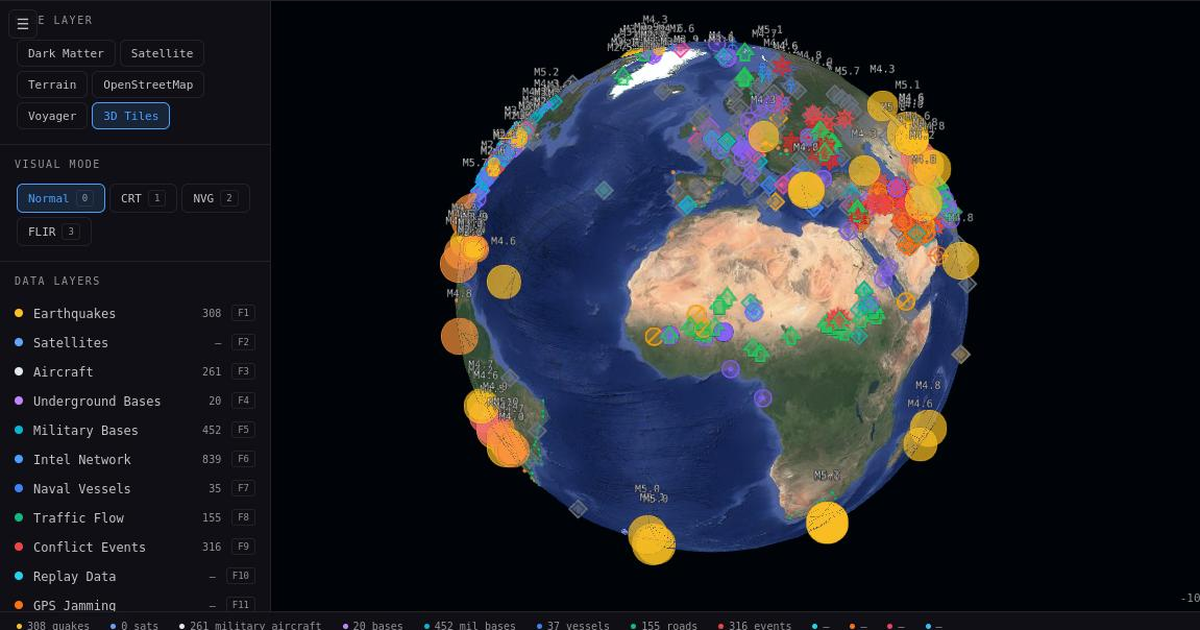
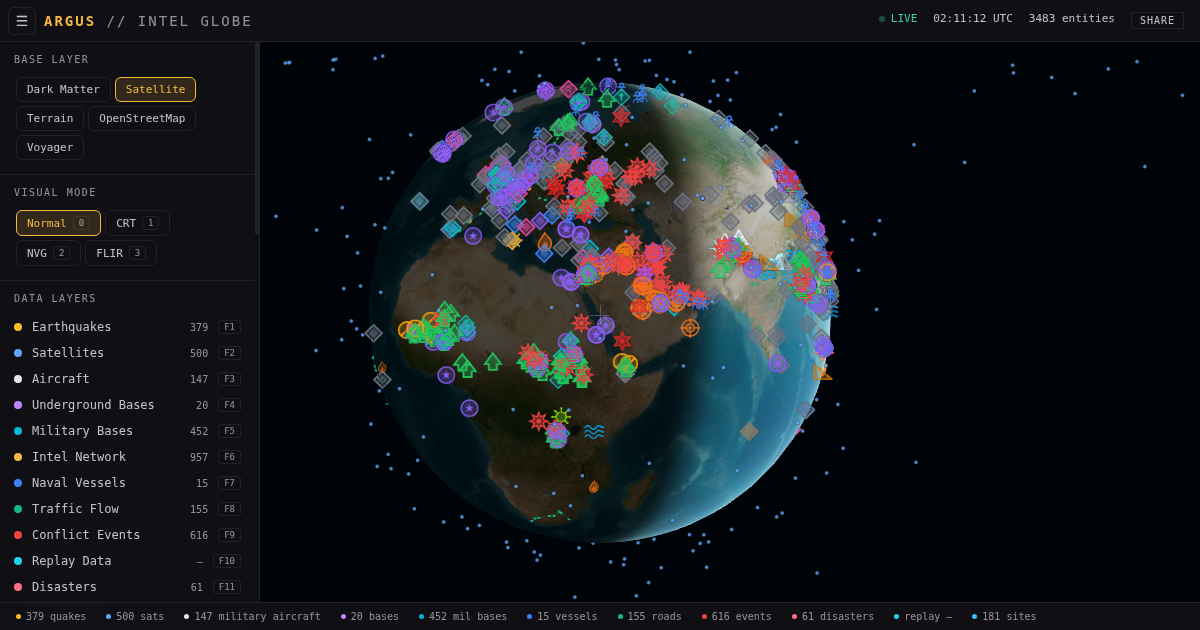
UI fixes from blind QC + amber og-image
- Panel toggle (☰) moves into the top bar beside the logo; it had sat on the
  panel's first heading ("BASE LAYER" read "E LAYER").
- Earthquake labels keep the L-toggle state across the 5-minute poll rebuild
  (they were hard-coded show: true, so labels came back after every refresh).
- Replay stat in the status bar reads "replay —" instead of a bare dash.
- og-image retaken from the live site: amber reskin, satellite base, current
  counts (616 events / 61 disasters). The old card was blue and showed the
  removed 3D Tiles and GPS Jamming layers.
- cdp_smoke: SHOT_JS stages the card with page script before capture.

Claude-Session: https://claude.ai/code/session_01JL3ZdCQbBUjmREN6EJ2Aco

diff --git a/index.html b/index.html
@@ -164,7 +164,7 @@
     <div class="stat-item"><div class="stat-dot" style="background:var(--traffic-color)"></div><span id="stat-traffic">—</span></div>
     <div class="stat-item"><div class="stat-dot" style="background:var(--conflict-color)"></div><span id="stat-conflicts">—</span></div>
     <div class="stat-item"><div class="stat-dot" style="background:var(--disaster-color)"></div><span id="stat-disasters">—</span></div>
-    <div class="stat-item"><div class="stat-dot" style="background:var(--playback-color)"></div><span id="stat-playback">—</span></div>
+    <div class="stat-item"><div class="stat-dot" style="background:var(--playback-color)"></div><span id="stat-playback">replay —</span></div>
     <div class="stat-item"><div class="stat-dot" style="background:var(--antarctica-color)"></div><span id="stat-antarctica">—</span></div>
   </div>
 

diff --git a/js/earthquakes.js b/js/earthquakes.js
@@ -2,6 +2,7 @@
 
 const Earthquakes = (() => {
   let entities = [];
+  let labelsVisible = true; // survives the poll rebuild
   let visible = true;
   let quakeData = [];
   const FEED_URL = 'https://earthquake.usgs.gov/earthquakes/feed/v1.0/summary/2.5_week.geojson';
@@ -68,7 +69,7 @@ const Earthquakes = (() => {
           verticalOrigin: Cesium.VerticalOrigin.BOTTOM,
           pixelOffset: new Cesium.Cartesian2(0, -size - 4),
           disableDepthTestDistance: 0,
-          show: true,
+          show: labelsVisible,
         },
         properties: {
           type: 'earthquake',
@@ -132,6 +133,7 @@ const Earthquakes = (() => {
   }
 
   function setLabelsVisible(show) {
+    labelsVisible = show;
     entities.forEach(e => {
       if (e.label) e.label.show = show;
     });

diff --git a/css/style.css b/css/style.css
@@ -88,6 +88,7 @@ html, body {
 }
 
 #top-bar .logo {
+  margin-left: 28px; /* room for #toggle-panel-btn */
   font-size: 14px;
   font-weight: 700;
   letter-spacing: 2px;
@@ -674,7 +675,7 @@ html, body {
 /* ── Toggle panel button ── */
 #toggle-panel-btn {
   position: fixed;
-  top: 50px;
+  top: 7px; /* in the top bar, left of the logo — clear of the panel content */
   left: 8px;
   width: 28px; height: 28px;
   display: flex;
@@ -685,7 +686,7 @@ html, body {
   border-radius: var(--radius);
   color: var(--text-secondary);
   cursor: pointer;
-  z-index: 1000;
+  z-index: 1001;
   font-size: 14px;
 }
 

diff --git a/tools/sweep/cdp_smoke.js b/tools/sweep/cdp_smoke.js
@@ -112,6 +112,8 @@ const getJson = (url) => new Promise((res, rej) => {
       if (typeof Disasters !== 'undefined') Disasters.setVisible(true);
       Globe.flyTo(${lon}, ${lat}, ${alt}, 0);
     })()` });
+    // SHOT_JS: page script to stage the card (layer visibility, base layer, …)
+    if (process.env.SHOT_JS) await send('Runtime.evaluate', { expression: process.env.SHOT_JS });
     // SHOT_KEYS: single-char app shortcuts to press first, e.g. "l" = labels off
     for (const k of (process.env.SHOT_KEYS || '')) {
       const code = k.toUpperCase().charCodeAt(0);

diff --git a/tools/sweep/README.md b/tools/sweep/README.md
@@ -9,7 +9,7 @@ Workflow (see memory `worldview-intel-globe`, session 2026-08-28):
 4. `node test_disasters.js` → exercises js/disasters.js headlessly against a GDACS fixture.
 5. Serve the repo (`python3 -m http.server 8080`) and `node cdp_smoke.js http://127.0.0.1:8080/ 70000`
    → headless-Chrome boot check (console, exceptions, layer counters). Needs google-chrome.
-   `SHOT=og-image.png` also captures a 1200×630 social card after the window (`SHOT_VIEW="lon,lat,alt"`, `SHOT_WAIT=ms`, `SHOT_KEYS=l` presses app shortcuts first — `l` hides labels).
+   `SHOT=og-image.png` also captures a 1200×630 social card after the window (`SHOT_VIEW="lon,lat,alt"`, `SHOT_WAIT=ms`, `SHOT_KEYS=l` presses app shortcuts first — `l` hides labels, `SHOT_JS=…` runs page script to stage the card).
 6. `SWEEP_DATE=YYYY-MM-DD python3 build_briefing.py` → `~/argus-sweeps/<date>/briefing.html` for review.
 
 `SWEEP_DIR` overrides the inbox location. `inbox/` is gitignored.
